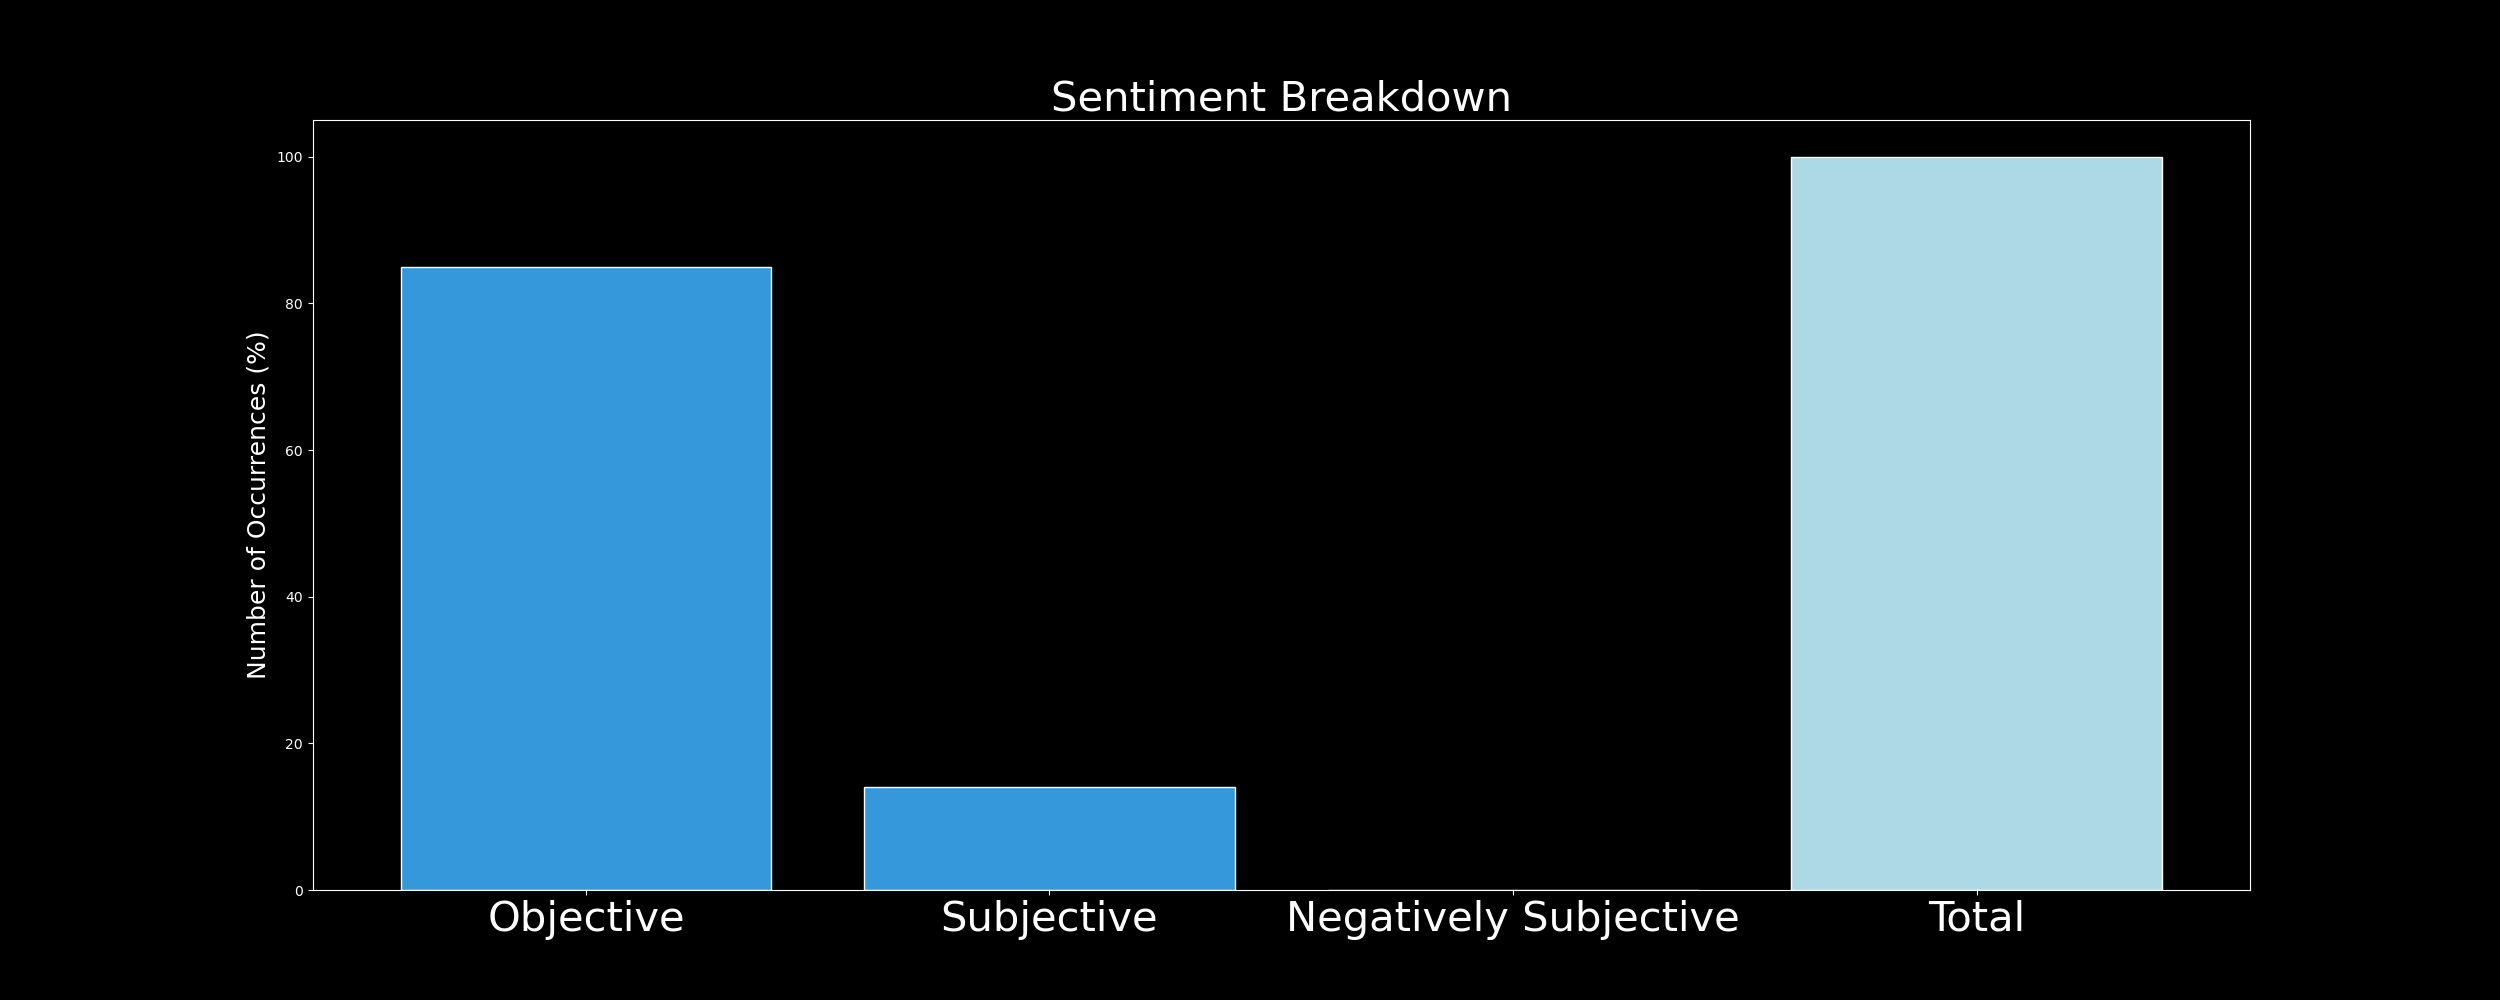
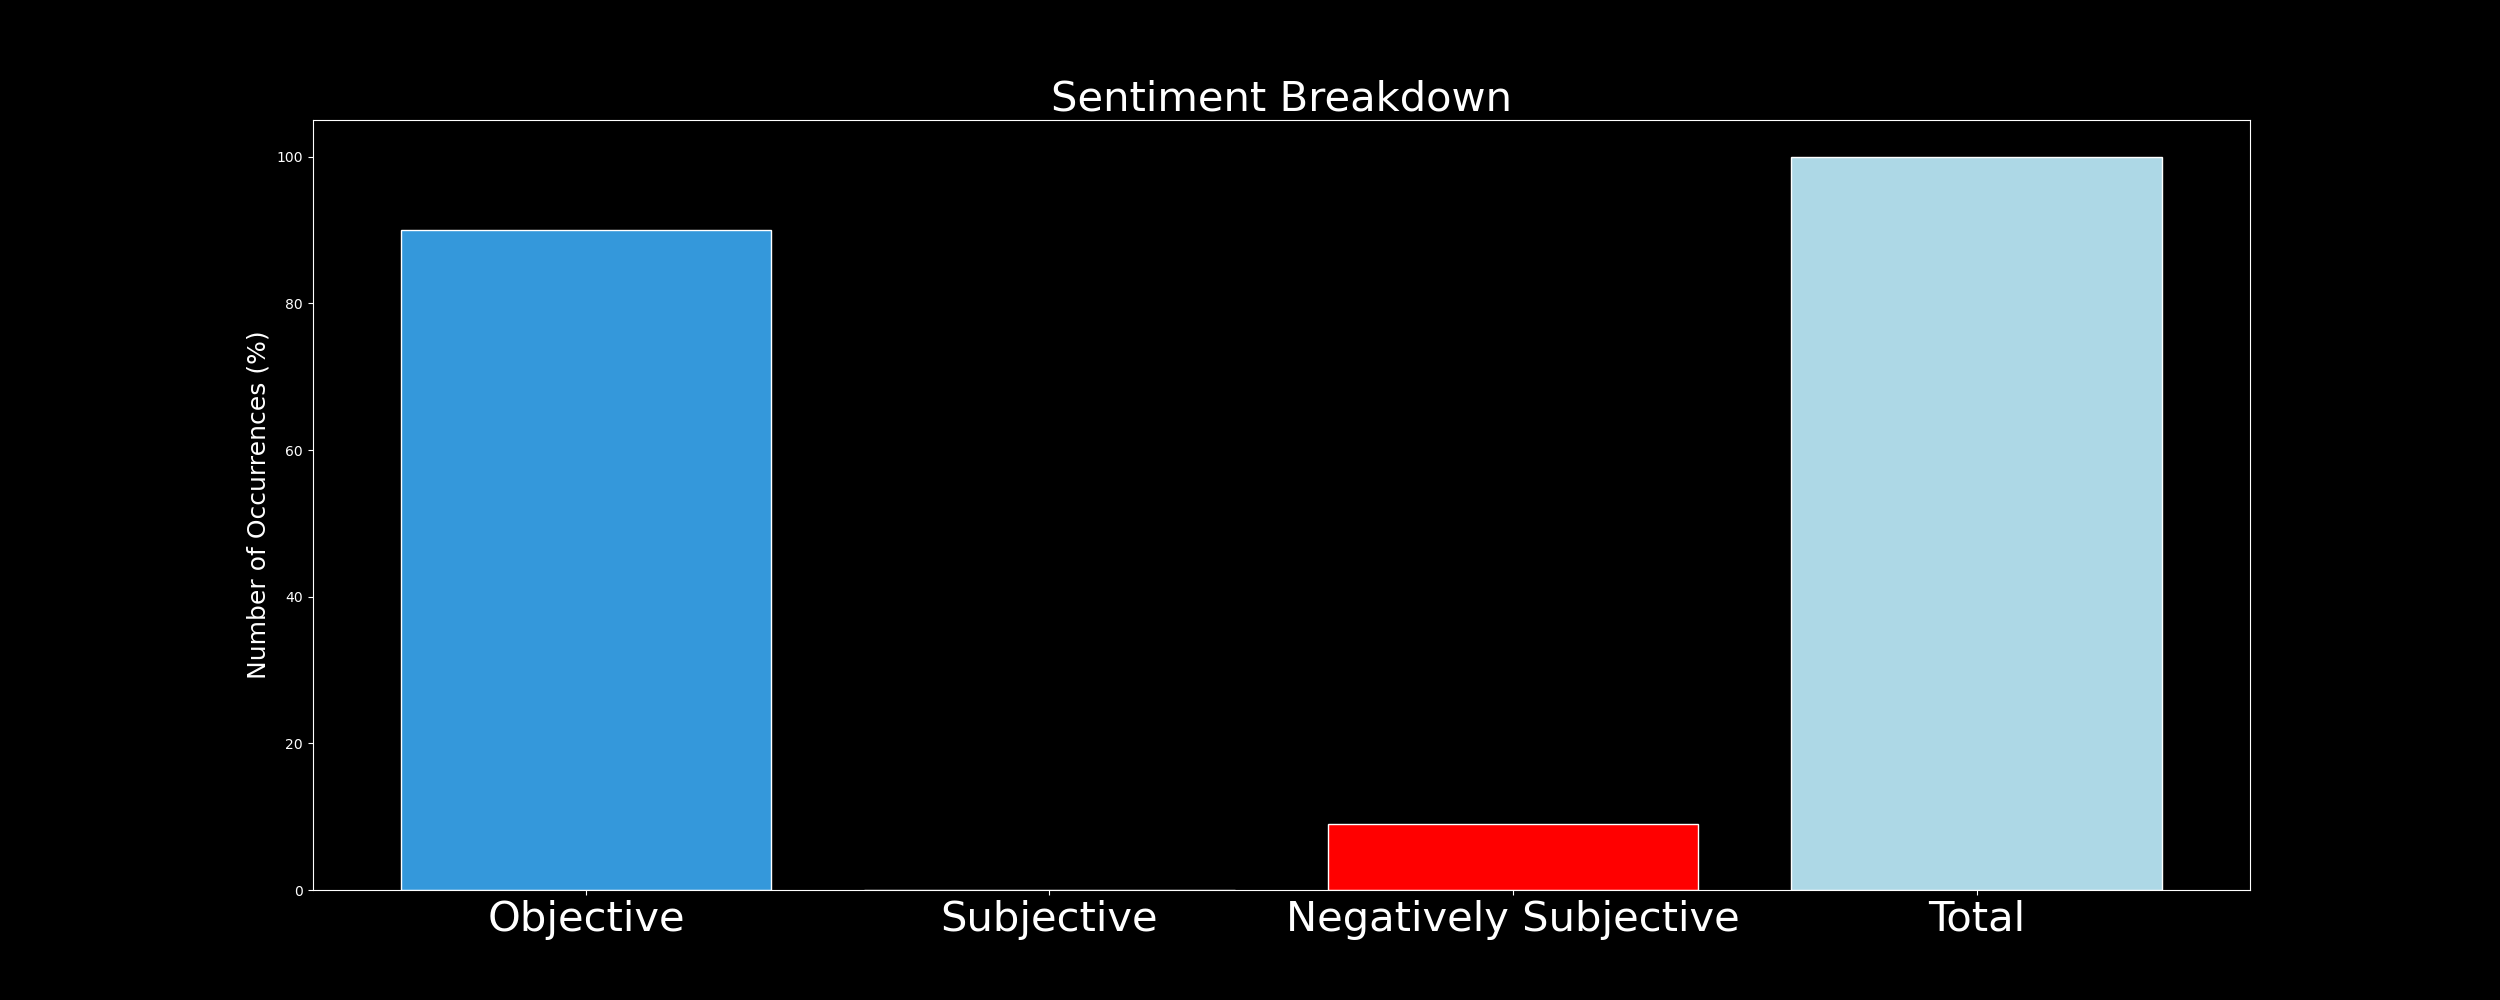
Next increment

Changed region(s): [[0.3432, 0.775, 0.4992, 0.899], [0.5304, 0.806, 0.6864, 0.899], [0.156, 0.217, 0.312, 0.279]]

diff --git a/assets/threatintel/tweet3.html b/assets/threatintel/tweet3.html
@@ -3,7 +3,9 @@
 			related tweet</i><br></br>  
 		<div id="quote"><center>
 <b style = "font-size:140%;color:silver"> 
-			RT @sisoma2: Latest blogpost from @symantec @threatintel were we uncover Graphiron a new infostealer with similarities to Elephant used by…
+			RT @DailyOsint: Do you have someone's username and need to investigate it?
+
+This #tool allows you to check the username on about 350 websit…
 </b>
 </center>
 </div>

diff --git a/assets/threatintel/tweet1.html b/assets/threatintel/tweet1.html
@@ -3,9 +3,7 @@
 			related tweet</i><br></br>  
 		<div id="quote"><center>
 <b style = "font-size:140%;color:silver"> 
-			Is The Public Cloud "Possibly"
-Now More Secure and
-Resilience Than On- #infosec #infosecurity #cybersecurity… https://t.co/d6rJUzdBZM
+			Exploiting API with AuthToken #infosec #infosecurity #cybersecurity #threatintel #threatintelligence #hacking… https://t.co/6eZBuxfavg
 </b>
 </center>
 </div>

diff --git a/assets/threatintel/tweet2.html b/assets/threatintel/tweet2.html
@@ -3,7 +3,7 @@
 			related tweet</i><br></br>  
 		<div id="quote"><center>
 <b style = "font-size:140%;color:silver"> 
-			RT @Tophs: Don't miss this! #threatintel #malwareintel #Ransomware https://t.co/wqSPkaTY9a
+			#ThreatProtection #HeadCrab Malware is making the rounds, read more: https://t.co/2whq1flpMq #Cybercrime #Cybersecurity #threatintel
 </b>
 </center>
 </div>

diff --git a/assets/threatintel/updatedDate.html b/assets/threatintel/updatedDate.html
@@ -1,1 +1,1 @@
-<p style="color: #FFFFFF; font-size:12px;"> Updated on 2023-02-13 </p>
+<p style="color: #FFFFFF; font-size:12px;"> Updated on 2023-02-14 </p>

diff --git a/assets/threatintel/table1.html b/assets/threatintel/table1.html
@@ -69,7 +69,7 @@
 					</td> 
 			  
 					  <td> 
-			2.05 
+			2.03 
 					</td> 
 			  
 					</tr>  

diff --git a/README.md b/README.md
@@ -1,20 +1,22 @@
 # DARKWIRE SOCIAL CYBER INSIGHTS 
-&#x1F34E; **TOPIC = "infosec"**
+&#x1F34E; **TOPIC = "threatintel"**
 
 ## AUTOMATED RESEARCH SUMMARY
   ![image](darkLogo.png)   
 
 |  Trending  |   Images | 
 :-------------------------:|:-------------------------:
-|  ![image](assets/infosec/imageFile1.jpg)     <img width=200/> | ![image](assets/infosec/imageFile2.jpg) <img width=200/> |   
+|  ![image](assets/threatintel/imageFile1.jpg)     <img width=200/> | ![image](assets/threatintel/imageFile2.jpg) <img width=200/> |   
  
  
-![image](assets/infosec/TWEETS.png)
+![image](assets/threatintel/TWEETS.png)
 <br></br>
-The most popular user is: **buitengebieden**  
+The most popular user is: **DailyOsint**  
  
 
-## Armadillo catching a ball.. 😊 https://t.co/ZOR7XNKXDG 
+## If you need a fast and effective port scanner,
+
+You can try #RustScan, which is able to scan all ports in 3 seconds… https://t.co/G6zZMOFiJN 
 
   
 
@@ -23,24 +25,24 @@ The most popular user is: **buitengebieden**
 
 ### TRENDING SHARED IMAGE
 
-![image](assets/infosec/twitterPostedImage.png)
+![image](assets/threatintel/twitterPostedImage.png)
 
 
 
 |                **Sample-Tweets**        |
 | :-------------: |
-| RT @JinibaBD: Chinese Tonto Team Hackers' Second Attempt to Target Cybersecurity Firm Group-IB Fails #cybercrime #Phishing #ransomware #cyb… |
-| Steganography — Data That Hidden Behind The Images.How Can You Detect The Hidden Data? [ #Tutorial ]… https://t.co/RykEAvAbHM |
-| RT @hackinarticles: Metasploit Framework Cheat Sheet@metasploit https://t.co/TwVzFbbZr4#infosec #cybersecurity #cybersecuritytips #pe… |
+| Exploiting API with AuthToken #infosec #infosecurity #cybersecurity #threatintel #threatintelligence #hacking… https://t.co/6eZBuxfavg |
+| RT @fr0gger_: ⚡MSTICpy is a powerful python library for threat intelligence and threat investigation! I created a new security artwork for… |
+| RT @best___tech: Forgot your password for your social network, google or any active account?  Send a message to us going to recovery.#hack… |
 
 ## RELATED METRICS<br>
 | Metric | Value |
 | ------------- | ------------- |
-| #1 Most tweeted to  | **hackinarticles** |
-| #2 Most tweeted to  | **0x0SojalSec** |
-| #3 Most tweeted to  | **0xor0ne** |
-| NewProfiles (less than 10 days) | 0.28%  |
-| Tweeters with < 10 followers  | 5.58%|
+| #1 Most tweeted to  | **DailyOsint** |
+| #2 Most tweeted to  | **fr0gger_** |
+| #3 Most tweeted to  | **threatintel** |
+| NewProfiles (less than 10 days) | 0.0%  |
+| Tweeters with < 10 followers  | 2.03%|
 | Tweeters with > 1000000 followers  | 0.0%  |
 
 
@@ -50,282 +52,30 @@ The most popular user is: **buitengebieden**
 
 | Popularity Rank  | Term |
 | ------------- | ------------- |
-| first  | **INFOSEC**  |
-| second  | **HACKING**  |
-| third  | **PHISHING** |
-| fourth  | **PENTESTING**  |
-| fifth  | **CYBERSECURITYTIPS**  |
+| first  | **THREATINTEL**  |
+| second  | **OSINT**  |
+| third  | **MALWARE** |
+| fourth  | **THREAT**  |
+| fifth  | **RANSOMWARE**  |
 
 
-## Twitter Bio Analysis![image](assets/infosec/BIO.png)
+## Twitter Bio Analysis![image](assets/threatintel/BIO.png)
 ### SENTIMENT ANALYSIS
-![image](assets/infosec/sentiment.png)
-VIEWS WERE : **SUBJECTIVE**  (23.08%) & **NEGATIVELY-SUBJECTIVE** (7.69%) **OBJECTIVE** (69.23%)
+![image](assets/threatintel/sentiment.png)
+VIEWS WERE : **SUBJECTIVE**  (0.0%) & **NEGATIVELY-SUBJECTIVE** (9.09%) **OBJECTIVE** (90.91%)
 
 ### TWEET SAMPLE 
 | Random value picked from array |
 | ------------- |
-|RT @TechNative: Combatting Growing Cyber Threats to Critical Infrastructure #cyberskills #infosec #cio #ciso #cso #CDO #MSPs #cybersecuri… |
+|RT @gleeda@infosec.exchangeAwesome work by jfslowik and team at huntress digging into a recent incident involving… https://t.co/LGgPAJnzlW |
 
 ### MOST RETWEETED 
 
-| The most retweeted user is: **buitengebieden**  |
+| The most retweeted user is: **DailyOsint**  |
 | ------------- |
-| Armadillo catching a ball.. 😊 https://t.co/ZOR7XNKXDG |
+| If you need a fast and effective port scanner,You can try #RustScan, which is able to scan all ports in 3 seconds… https://t.co/G6zZMOFiJN |
 
 # Potential Fake Accounts
- 
-# jakejaki7USER INFO
-![image](http://pbs.twimg.com/profile_images/1625194321224863744/3__nXO1u_normal.png)
- 
-`User ScreenName:` jakejaki7 
- 
-`User chosen Name:` jake jaki 
- 
-`Is the User Verified?:` False 
- 
-`User signup date?:` Mon Feb 13 18:04:55 +0000 2023 
- 
-`User Description?:`  
- 
-`Followers?: `0 
- 
-`Following?:` 2 
- 
-`User URL?:` None 
- 
-`Location:`  
- 
-`Number of tweets extracted`  : 1 
- 
-`Profile image:` http://pbs.twimg.com/profile_images/1625194321224863744/3__nXO1u_normal.png 
- 
-`Number of tweets excluding replies:` 1 
- 
-
- 
-
- 
-## User Top tweeted words 
- 
-**WINRAR** 1 , **KEYGEN** 1 , **–** 1 , **REVERSE** 1 , **ENGINEERING** 1 , **TUTORIAL** 1 , **HTTPS://TCO/SDHLQEYVBO** 1 , **INFOSEC** 1 , **BUGCROWD** 1 , **BUGBOUNTYTIPS…** 1 , **HTTPS://TCO/V31ELYBAHF** 1 , 
- 
-## What this user tweeted
- 
-WinRar Keygen – Reverse Engineering Tutorial https://t.co/SDHlqeyvBo #infosec #bugcrowd #bugbountytips… https://t.co/V31eLyBahf
- 
-# M_Tariq23USER INFO
-![image](http://pbs.twimg.com/profile_images/1622618463004164096/xIuPGoCF_normal.png)
- 
-`User ScreenName:` M_Tariq23 
- 
-`User chosen Name:` Muhammad Tariq 
- 
-`Is the User Verified?:` False 
- 
-`User signup date?:` Mon Feb 06 15:29:22 +0000 2023 
- 
-`User Description?:`  
- 
-`Followers?: `0 
- 
-`Following?:` 21 
- 
-`User URL?:` None 
- 
-`Location:`  
- 
-`Number of tweets extracted`  : 11 
- 
-`Profile image:` http://pbs.twimg.com/profile_images/1622618463004164096/xIuPGoCF_normal.png 
- 
-`Number of tweets excluding replies:` 11 
- 
-
- 
-
- 
-## User Top tweeted words 
- 
-**TECH** 3 , **@SOUTHASIAINDEX:** 2 , **AFTER** 2 , **@TECHDESTPAK:** 2 , **PAKISTAN** 2 , **ITS** 2 , **RT** 1 , **@HACKINARTICLES:** 1 , **BURPSUITE** 1 , **EXTENSIONS** 1 , **CHEAT** 1 , **SHEET** 1 , **@PORTSWIGGERRES** 1 , **HTTPS://TCO/BFZK0NQVZB** 1 , **INFOSEC** 1 , **CYBERSECURITY** 1 , **CYBERSECURITYTIPS…RT** 1 , **NORWAY:—** 1 , **NORWAY'S** 1 , **SOVEREIGN** 1 , 
- 
-## What this user tweeted
- 
-RT @hackinarticles: Burpsuite Extensions Cheat Sheet
-
-@PortSwiggerRes 
-
-https://t.co/bFZk0nqvZB
-
-#infosec #cybersecurity #cybersecuritytips…
- 
-# SanuSar33851601USER INFO
-![image](http://pbs.twimg.com/profile_images/1625173828099010560/dFZlKYSp_normal.png)
- 
-`User ScreenName:` SanuSar33851601 
- 
-`User chosen Name:` Sanu Sarkar 
- 
-`Is the User Verified?:` False 
- 
-`User signup date?:` Mon Feb 13 16:43:29 +0000 2023 
- 
-`User Description?:`  
- 
-`Followers?: `0 
- 
-`Following?:` 24 
- 
-`User URL?:` None 
- 
-`Location:`  
- 
-`Number of tweets extracted`  : 4 
- 
-`Profile image:` http://pbs.twimg.com/profile_images/1625173828099010560/dFZlKYSp_normal.png 
- 
-`Number of tweets excluding replies:` 5 
- 
-
- 
-
- 
-## User Top tweeted words 
- 
-**–** 6 , **FULL** 5 , **ACTIVATED** 5 , **DISCOUNT** 3 , **100%** 3 , **OFF** 3 , **PRO** 2 , **SOCINATOR** 1 , **DOMINATOR** 1 , **ENTERPRISE** 1 , **V100142** 1 , **HTTPS://TCO/YKRV7THTKJ** 1 , **INFOSEC…** 1 , **HTTPS://TCO/GYXHJ2W4GFTELEGRAM** 1 , **SENDER** 1 , **V8730** 1 , **TELEGRAM** 1 , **MARKETING** 1 , **HTTPS://TCO/RDWLWUY5RY…** 1 , **HTTPS://TCO/BVSI2VYNMOBURP** 1 , 
- 
-## What this user tweeted
- 
-Socinator Dominator Enterprise v1.0.0.142 Full Activated – Discount 100% OFF https://t.co/ykRv7THTKj #infosec… https://t.co/GyxHJ2W4gfTelegram Sender Pro v8.7.3.0 Full Activated – Telegram Marketing – Discount 100% OFF https://t.co/rdWlWuy5ry… https://t.co/bVsI2vyNmoBurp Suite Professional Edition v2023.1 x64 Full Activated   Burp Bounty Pro v2.6.1 Full Activated   Extensions – D… https://t.co/fkldhaqRtSAcunetix Premium v15.3.230123162 Full Activated – CyberSecurity Tools – Discount 100% OFF https://t.co/hVk9T1m0jd… https://t.co/JC5A5fAwvg
- 
-# CharmoniTakesUSER INFO
-![image](http://pbs.twimg.com/profile_images/1625165921126842368/zLqhUDS-_normal.jpg)
- 
-`User ScreenName:` CharmoniTakes 
- 
-`User chosen Name:` Charmoni Takis 
- 
-`Is the User Verified?:` False 
- 
-`User signup date?:` Mon Feb 13 15:52:28 +0000 2023 
- 
-`User Description?:` Epicurean Philosophy in ancient Athens 
- 
-`Followers?: `2 
- 
-`Following?:` 55 
- 
-`User URL?:` None 
- 
-`Location:`  
- 
-`Number of tweets extracted`  : 95 
- 
-`Profile image:` http://pbs.twimg.com/profile_images/1625165921126842368/zLqhUDS-_normal.jpg 
- 
-`Number of tweets excluding replies:` 95 
- 
-
- 
-
- 
-## User Top tweeted words 
- 
-**ΤΟ** 12 , **@YANISKATSELIS:** 12 , **LAMPONIO** 9 , **@THESTOICEMPEROR:** 9 , **Η** 7 , **ΜΕ** 6 , **NEW** 6 , **ΚΑΙ** 6 , **ΝΑ** 6 , **ΤΗΝ** 5 , **ΠΟΥ** 5 , **ΣΤΟ** 4 , **YEARS** 4 , **@NEILTYSON:** 4 , **@ELONMUSK** 4 , **ΔΕΝ** 4 , **ΘΑ** 4 , **Ο** 4 , **DRAGONSDENGR** 3 , **@SHIVON:** 3 , 
- 
-## What this user tweeted
- 
-RT @TheHackersNews: Don't wait for a cyber attack to hit!
-
-⚡ Learn about the new Identity Security requirements for cyber insurance in our…
- 
-# jesa_duranUSER INFO
-![image](http://pbs.twimg.com/profile_images/1623502403768311810/NSh_FwVM_normal.png)
- 
-`User ScreenName:` jesa_duran 
- 
-`User chosen Name:` Jesa Jean Duran 
- 
-`Is the User Verified?:` False 
- 
-`User signup date?:` Thu Feb 09 02:01:50 +0000 2023 
- 
-`User Description?:`  
- 
-`Followers?: `1 
- 
-`Following?:` 0 
- 
-`User URL?:` None 
- 
-`Location:`  
- 
-`Number of tweets extracted`  : 15 
- 
-`Profile image:` http://pbs.twimg.com/profile_images/1623502403768311810/NSh_FwVM_normal.png 
- 
-`Number of tweets excluding replies:` 15 
- 
-
- 
-
- 
-## User Top tweeted words 
- 
-**@CYBER_EVERY:** 15 , **SMALLBUSINESS** 5 , **CYBER** 5 , **👉** 5 , **⚠** 4 , **PROTECT** 3 , **⛔** 3 , **➡** 3 , **🛑** 3 , **CYBERSECURITY** 3 , **🚩** 2 , **ATTACKS** 2 , **RISKS** 2 , **SMALLBUSINESSOWNER** 2 , **…RT** 2 , **IT!** 2 , **NEED** 2 , **SMALLBUS…RT** 2 , **SMALL** 2 , **CERTIFICATE** 2 , 
- 
-## What this user tweeted
- 
-RT @cyber_every: ⚠ Cyber attacks have steadily increased! Know the risks and how deadly it is to #SmallBusinesses!
-
-Shocking Stats: https:…RT @cyber_every: 🚨 What is a deep fake video and how to spot It! Everything you need to know!
- ➡ https://t.co/PwKbu2eFZb
-
-#smallbusiness #…RT @cyber_every: ⛔ The importance of cybersecurity strategy to every small and medium businesses!! 👉 https://t.co/seGkhhmWns
-
-#smallbusines…RT @cyber_every: ⛔ What is a certificate authority and how important is it to your digital security? 
-➡ https://t.co/Xw9jL0JzRB
-
-#smallbus…RT @cyber_every: 🚩 HTTPS and HTTP. We encounter these acronyms everyday as we surf the Internet. But what are they and why should they matt…RT @cyber_every: ⚠ Know what a Rogue Certificate is, how dangerous it is and how you can  protect your company against it! ➡ https://t.co…
- 
-# onepiec27878962USER INFO
-![image](http://pbs.twimg.com/profile_images/1625101139665354754/bkcJ6iVh_normal.png)
- 
-`User ScreenName:` onepiec27878962 
- 
-`User chosen Name:` onepiece naruto 
- 
-`Is the User Verified?:` False 
- 
-`User signup date?:` Mon Feb 13 11:54:39 +0000 2023 
- 
-`User Description?:`  
- 
-`Followers?: `0 
- 
-`Following?:` 1 
- 
-`User URL?:` None 
- 
-`Location:`  
- 
-`Number of tweets extracted`  : 1 
- 
-`Profile image:` http://pbs.twimg.com/profile_images/1625101139665354754/bkcJ6iVh_normal.png 
- 
-`Number of tweets excluding replies:` 1 
- 
-
- 
-
- 
-## User Top tweeted words 
- 
-**SIMPLE** 1 , **FACEBOOK** 1 , **AUTO** 1 , **POSTER** 1 , **V19918** 1 , **FULL** 1 , **ACTIVATED** 1 , **–** 1 , **DISCOUNT** 1 , **100%** 1 , **OFF** 1 , **HTTPS://TCO/SR0JTVEVXW** 1 , **INFOSEC** 1 , **BUGCROWD…** 1 , **HTTPS://TCO/LZRKSUEHIT** 1 , 
- 
-## What this user tweeted
- 
-Simple Facebook Auto Poster v19.9.1.8 Full Activated – Discount 100% OFF https://t.co/sr0jtvevxw #infosec #bugcrowd… https://t.co/lzrksUeHit
  
 
 <b> This report is AUTOMATED and not hand crafted, it is designed for pulling metrics on a given keyword or hashtag and performs a series of reporting and analysis.</b>  
